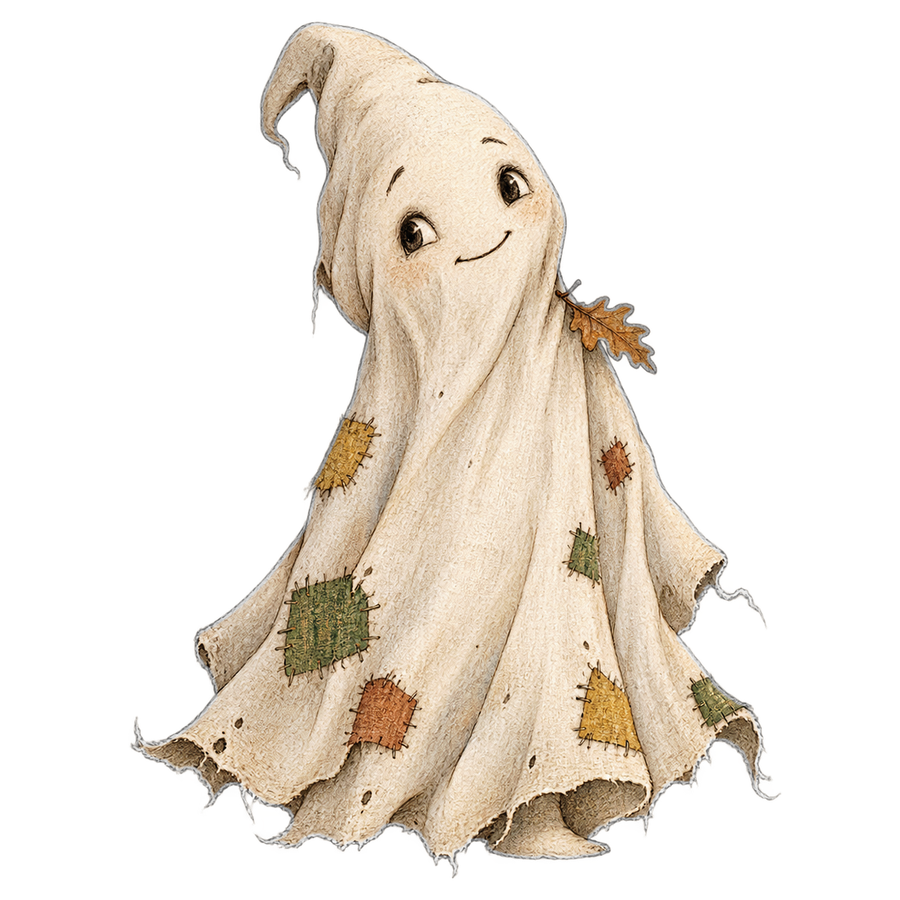
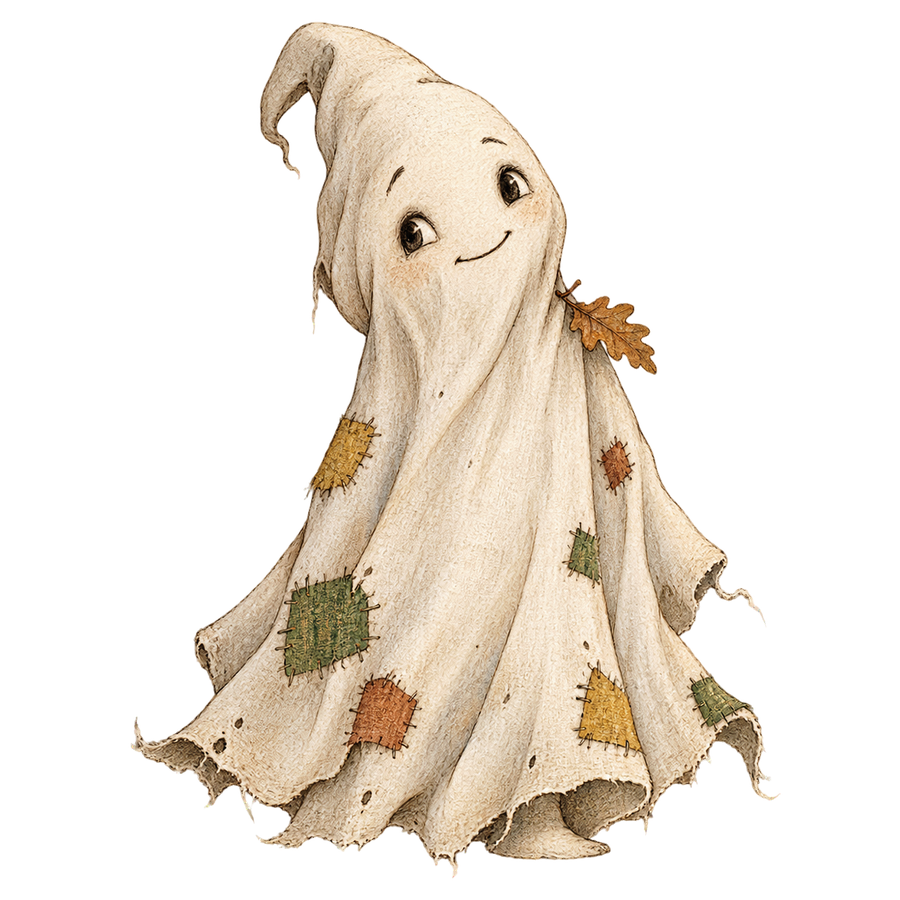
Raschel-Freisteller richtig entsaeumen
Mein erster Versuch war schlechter als das Original. Ich hatte den
roten und gelben Saum entsaettigt, und daraus wurde ein grauer Halo.
Auf dunklem Grund sah das besser aus, auf dem cremefarbenen Papier
der Seite aber deutlich schlechter: ein grauer Strich um die ganze
Figur, den es vorher nicht gab.

Jetzt wird die Randfarbe nicht entsaettigt, sondern durch die Farbe
von innen ersetzt. Der Kern mit voller Deckkraft gibt die Farbe vor,
sie waechst nach aussen in den Randbereich hinein. Dazu wird der
aeusserste Rand leicht zurueckgenommen.

Ergebnis: auf Creme nicht vom Original zu unterscheiden, auf dunklem
Grund sauber. Kein Halo in beide Richtungen.

Die Produktkarte auf der Startseite nimmt jetzt ein picture-Element
mit PNG als Rueckfall, statt WebP ohne Alternative.

Claude-Session: https://claude.ai/code/session_01XGjtieJKCJujawxkojSyg8

diff --git a/index.html b/index.html
@@ -1810,7 +1810,7 @@ a:focus-visible,button:focus-visible{outline:3px solid #c8a96e;outline-offset:4p
 
  <!-- Raschel, das Waldgespenst -->
  <div class="produkt-card reveal d3">
- <img src="assets/raschel.webp" alt="Raschel, das Waldgespenst" class="produkt-cover" loading="lazy">
+ <picture><source srcset="assets/raschel.webp" type="image/webp"><img src="assets/raschel.png" alt="Raschel, das Waldgespenst" class="produkt-cover" loading="lazy"></picture>
  <span class="produkt-badge" style="background:var(--gold);color:var(--dark);">Bald</span>
  <h3 class="produkt-name">Raschel, das<br>Waldgespenst</h3>
  <p class="produkt-desc">Der Sturm hat Raschels Laken zerrissen. Sieben Flicken liegen irgendwo zwischen den Bäumen. Eine Waldrallye für 6 bis 11 Jahre.</p>
